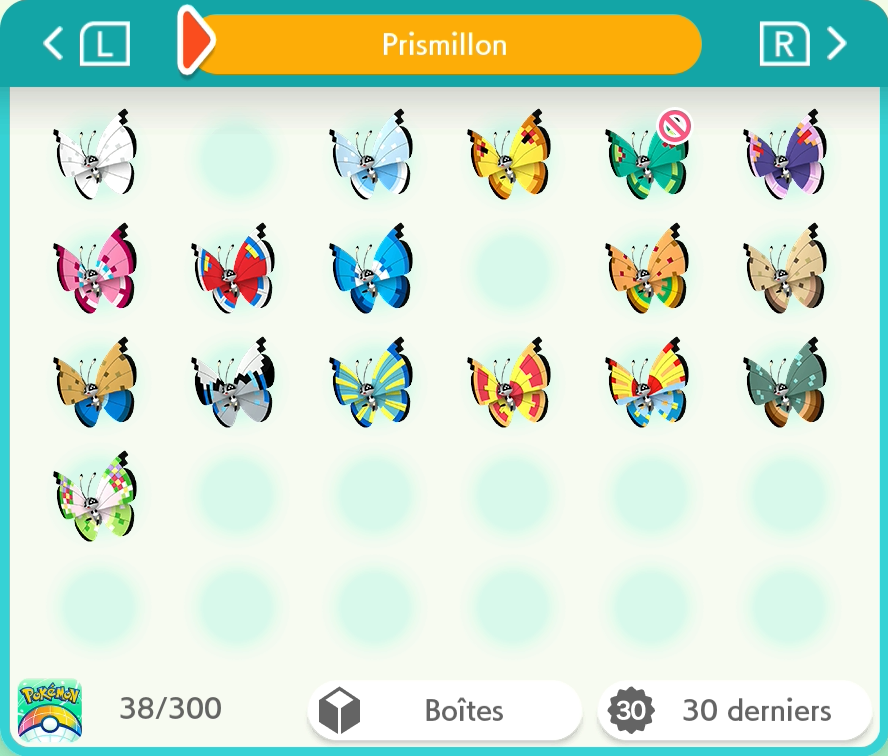
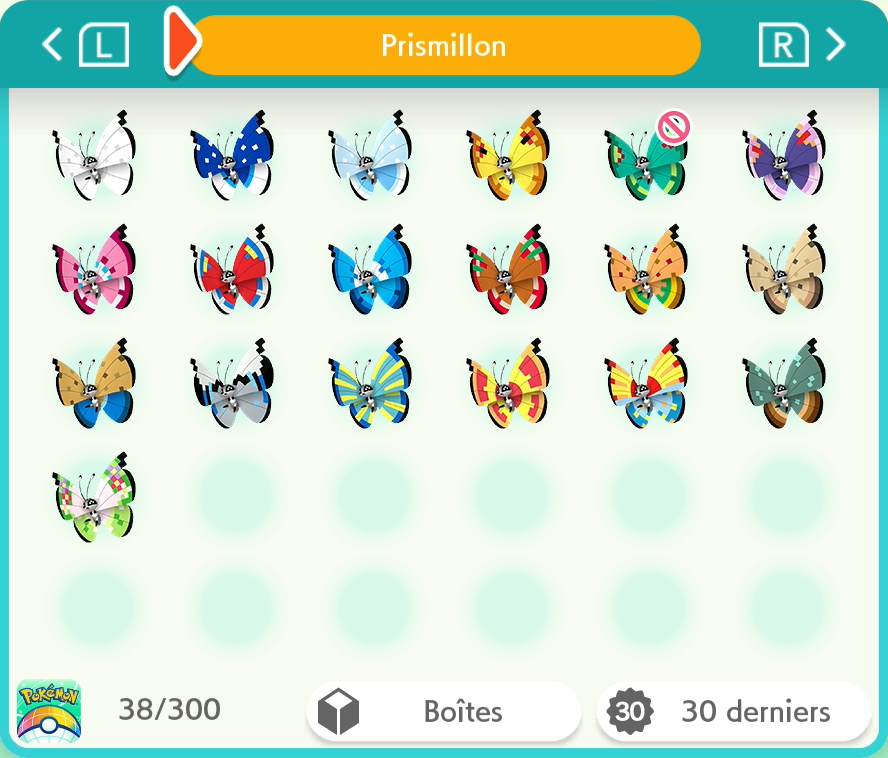
Prismillon : Motif Archipel & Banquise

diff --git a/README.md b/README.md
@@ -2,7 +2,7 @@
 
 Pokémon-Elément-Sh -> <a href="https://www.pokemon-element-sh.fr/profil/karyno21" target="_blank">Karyno21</a>
 
-↓ Dernière Update le 23/10/2026 à 6h07 ↓
+↓ Dernière Update le 25/10/2026 à 3h55 ↓
 ### Dex 1-9G [304/1001] +43
 
 | Gen | Prog | Notes |
@@ -29,14 +29,14 @@ Pokémon-Elément-Sh -> <a href="https://www.pokemon-element-sh.fr/profil/karyno
 ### Total [362/1059] +43
 
 <details>
-  <summary>Bonus - Motif de Prismillon [17/19] +17</summary>
+  <summary>Bonus - Motif de Prismillon [19/19] +19</summary>
 
 ### Motif de Prismillon 
 
 | Motif | Prog |
 |---|:--:|
-|Motif Archipel||
-|Motif Banquise||
+|Motif Archipel|Obtenu|
+|Motif Banquise|Obtenu|
 |Motif Blizzard|Obtenu|
 |Motif Continent|Obtenu|
 |Motif Cyclone|Obtenu|
